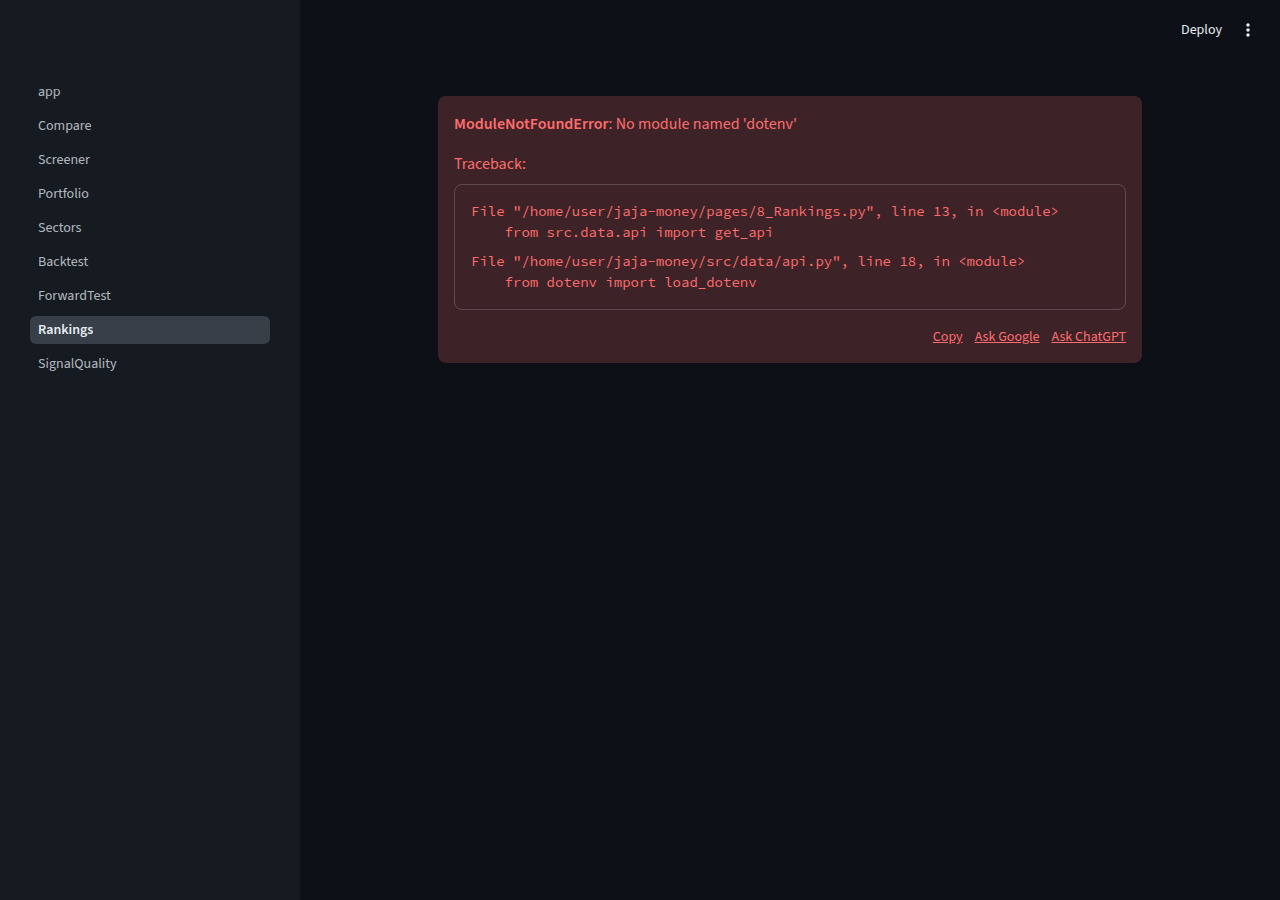
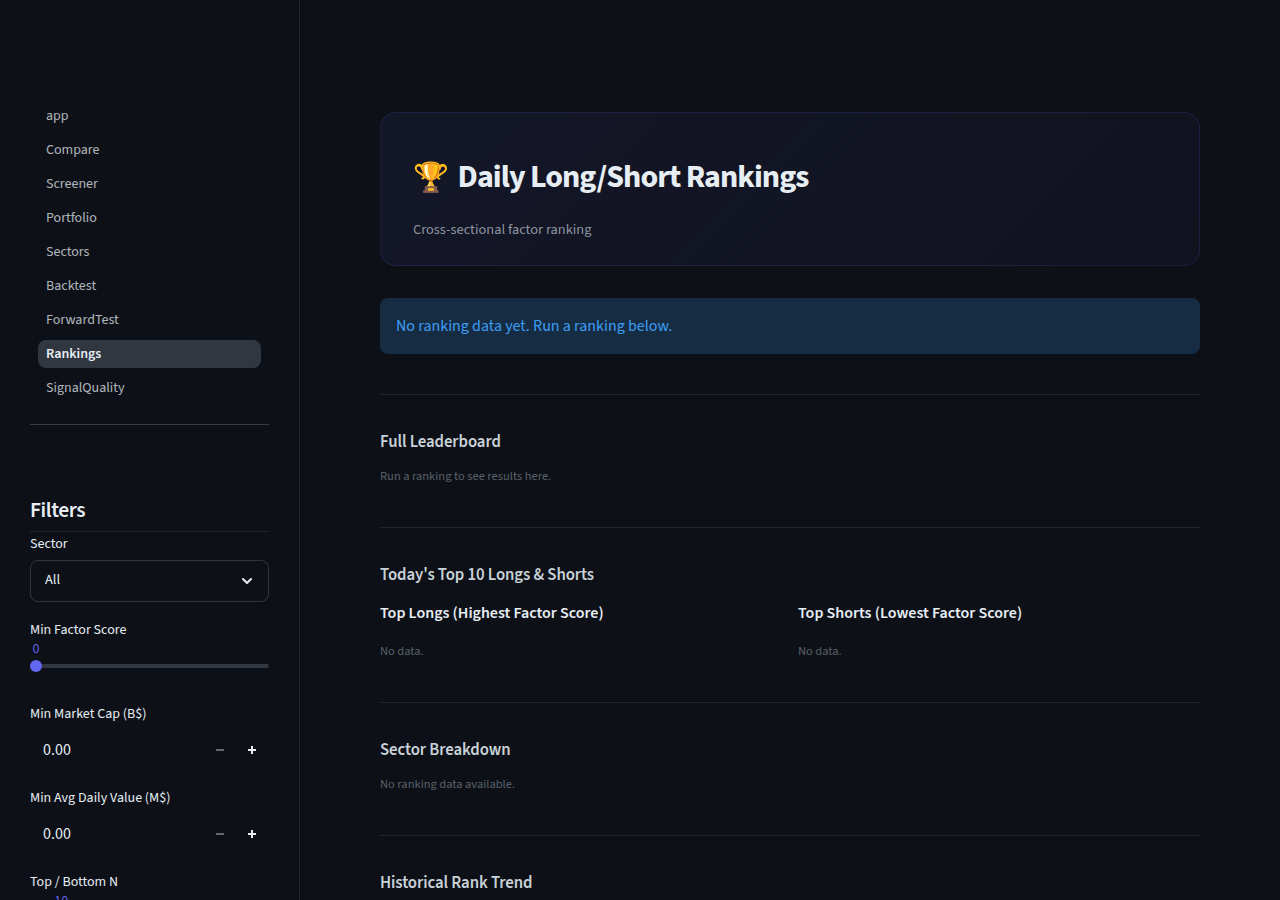
fix screenshot tests: wait for page content before capturing
- Add content-aware waits (wait_for_selector) before taking screenshots
- Increase wait times to let Streamlit finish rendering
- Screenshots now show actual page content without errors or blank screens

https://claude.ai/code/session_01EQJC6L8yAMbFr8GuGuC1LQ

diff --git a/tests/integration/test_pages.py b/tests/integration/test_pages.py
@@ -268,7 +268,7 @@ class TestForwardTestPage:
 
     def test_forward_test_page_loads(self):
         """Forward Test page should load with portfolio tracking UI."""
-        self.page.wait_for_timeout(3000)
+        self.page.wait_for_timeout(5000)
         body_text = self.page.locator("body").inner_text()
         assert any(
             kw in body_text
@@ -277,6 +277,13 @@ class TestForwardTestPage:
 
     def test_forward_test_screenshot(self):
         """Capture screenshot of forward test page."""
+        # Wait for sidebar "Portfolios" header — rendered even in the empty state
+        try:
+            self.page.wait_for_selector("text=Portfolios", timeout=15_000)
+        except Exception:
+            pass
+        # Wait for the Streamlit running spinner to clear
+        self.page.wait_for_timeout(5000)
         self.page.screenshot(path=str(SCREENSHOTS_DIR / "forward_test.png"))
 
 
@@ -297,7 +304,7 @@ class TestRankingsPage:
 
     def test_rankings_page_loads(self):
         """Rankings page should load with ranking UI."""
-        self.page.wait_for_timeout(3000)
+        self.page.wait_for_timeout(5000)
         body_text = self.page.locator("body").inner_text()
         assert any(
             kw in body_text
@@ -306,6 +313,13 @@ class TestRankingsPage:
 
     def test_rankings_screenshot(self):
         """Capture screenshot of rankings page."""
+        # Wait for "Full Leaderboard" section to render
+        try:
+            self.page.wait_for_selector("text=Full Leaderboard", timeout=15_000)
+        except Exception:
+            pass
+        # Wait for the Streamlit running spinner to clear
+        self.page.wait_for_timeout(5000)
         self.page.screenshot(path=str(SCREENSHOTS_DIR / "rankings.png"))
 
 
@@ -326,7 +340,7 @@ class TestSignalQualityPage:
 
     def test_signal_quality_page_loads(self):
         """Signal Quality page should load with quality metrics UI."""
-        self.page.wait_for_timeout(3000)
+        self.page.wait_for_timeout(5000)
         body_text = self.page.locator("body").inner_text()
         assert any(
             kw in body_text
@@ -335,4 +349,9 @@ class TestSignalQualityPage:
 
     def test_signal_quality_screenshot(self):
         """Capture screenshot of signal quality page."""
+        try:
+            self.page.wait_for_selector("text=Signal Quality", timeout=15_000)
+        except Exception:
+            pass
+        self.page.wait_for_timeout(3000)
         self.page.screenshot(path=str(SCREENSHOTS_DIR / "signal_quality.png"))
